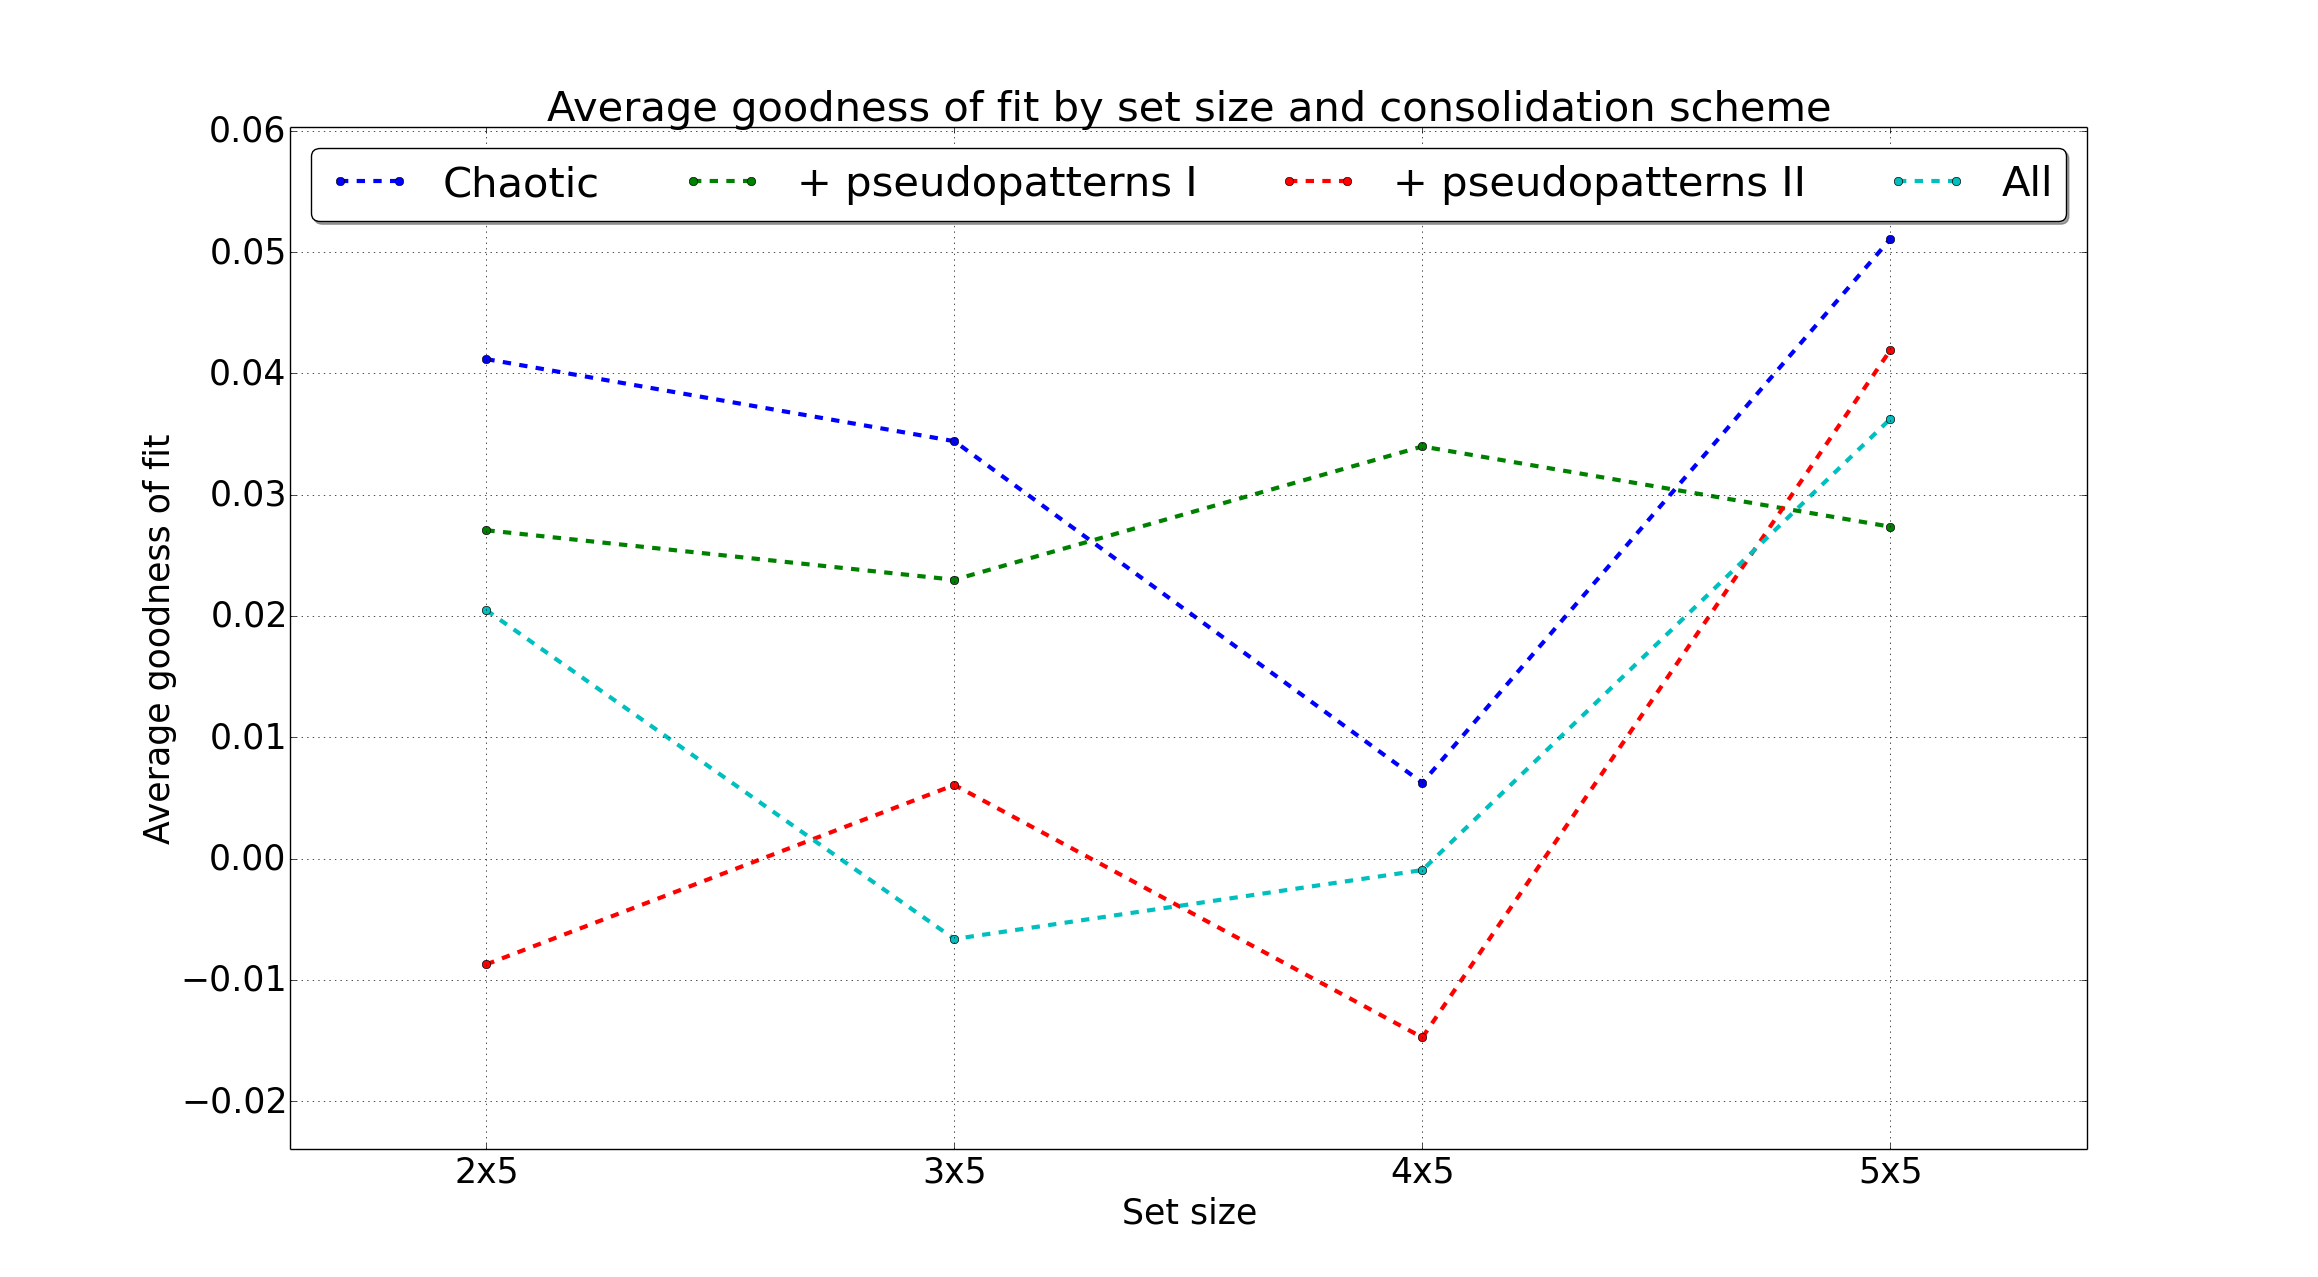
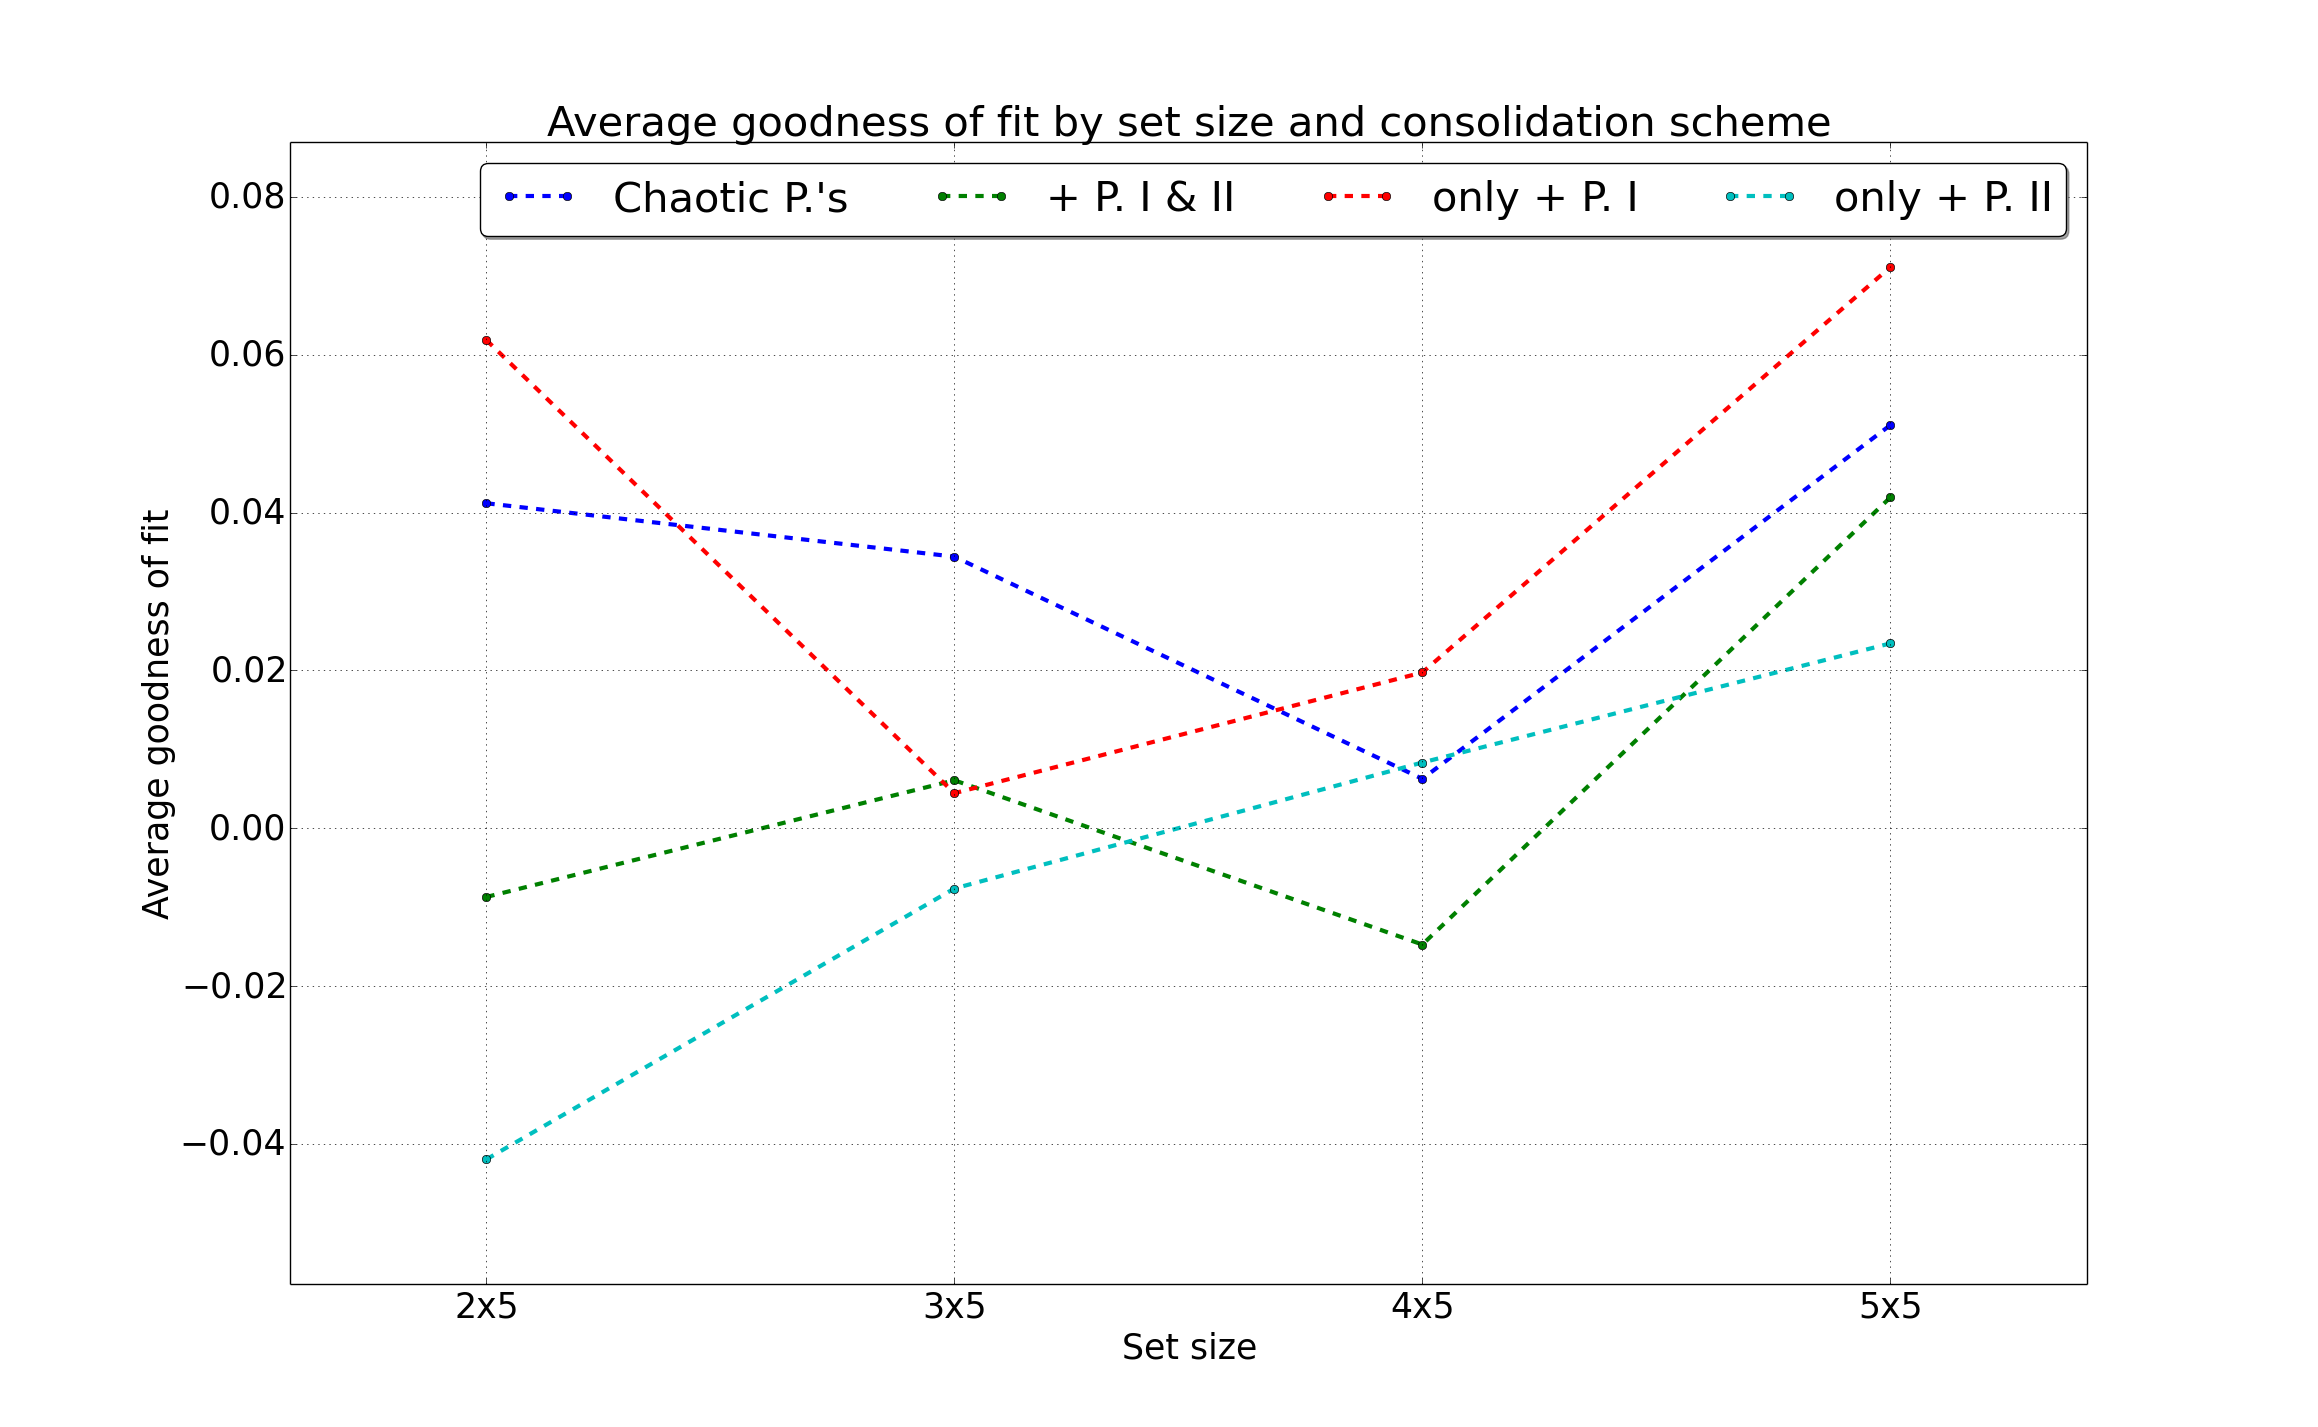
further chaotic output IO span draft

diff --git a/chapter4.tex b/chapter4.tex
@@ -138,16 +138,10 @@ In order to evaluate the impact of synchronous action potential propagation and 
 In this experiment, 20 trials is performed for every full auto-associative training set (that is 2x5, 3x5, 4x5, and 5x5), for every configuration. In other words, for 20 trials $20 * 4 = 80$ experiments are run for each model configuration. In these experiments the model attempts to learn to associate the for $n$ first capital letters auto-associatively, where $n$ corresponds to e.g. $2x5 = 10$, $3x5=15$, $4x5=20$, or $5x5=25$, the x denoting that the training set consists of 5 subsets that are used to train the model, sequentially. 
 Furthermore, the convergence criterion is defined as the following: For each training pattern in the current training set, if the model output is the correct pattern output for the undistorted pattern-input for three recall iterations, the pattern is considered to be successfully learnt. If this is the case for every pattern in the current training subset, convergence is considered to be attained, and chaotic recall is performed. Furthermore, when generating figures, the model is considered to have successfully learned the current training set if converging in less than 50 training iterations. Chaotic recall is performed similarly to the procedure in \citep{Hattori2010, Hattori2014}. That is, during chaotic recall, when the output remains unchanged for three recall iterations, the pattern is considered to be learnt, or successfully extracted in the case of chaotic recall. Chaotic recall is always performed for 300 time-steps, with the input to the network being a new non-changing random input for every extracted pattern.
 
-% \begin{figure}
-%     \centering
-%     \includegraphics[width=14cm]{fig/average_perfect_recall_rates_by_set_size_bars_reset_for_every_experiment}
-%     \caption{Displaying the average number of perfectly recalled patterns by set size for the four different model configurations. Note that the dentate gyrus weighting is set to 25, and the turnover rate to $0.50$ in all of the configurations, which might impact particularly the turnover mode in which turnover is performed between every training iteration.}
-%     \label{fig:avg_perfect_recall_bars}
-% \end{figure}
 
 \begin{figure}
     \centering
-    \includegraphics[width=12cm]{fig/average_perfect_recall_rates_by_set_size_with_spurious_bars_cut}
+    \includegraphics[width=14cm]{fig/average_perfect_recall_rates_by_set_size_with_spurious_bars}
     \caption{Displaying the average number of perfectly recalled patterns for each mode configuration, along with the average number of spuriously recalled patterns for each configuration. Note that the dentate gyrus weighting is set to 25, and the turnover rate to $0.50$ in all of the configurations, which might impact particularly the turnover mode in which turnover is performed between every training iteration.}
     \label{fig:avg_perfect_recall_rates_with_spurious_bars}
 \end{figure}
@@ -156,7 +150,7 @@ Note that spurious is defined as any distinct non-perfectly recalled pattern in 
 
 \begin{figure}
     \centering
-    \includegraphics[width=13cm]{fig/avg_convergence_rate_cut}
+    \includegraphics[width=14cm]{fig/avg_convergence_rate}
     \caption{Presenting the average convergence rate in the four experiment-schemes, using the strict convergence criterion. Learning and convergence is considered successful if attained within 50 training iterations. Note that the synchronous updating schemes seem to converge just as well in nearly all cases, except for in the case of set size 5.}
     \label{fig:convergence_rates_async_sync}
 \end{figure}
@@ -194,39 +188,12 @@ Note that the model configuration now employs a turnover rate, denoted by $\tau$
 
 % results
 
-% \begin{figure}
-%     \centering
-%     \includegraphics[width=13cm]{fig/DGWs/cut/avg_recall_ratio_by_dgw_sync_tm0_50_cut}
-%     \caption{Perfect recall rate for synchronous CA3-layer neuronal updates, using a turnover rate $\tau=0.50$, and neuronal turnover between learnt subsets. It seems that using the DG-layer altogether does only slightly enhance the extraction rate of the model with the current parametrization. Furthermore, the extraction rate relative to the pattern size of perfectly recalled patterns remains fairly uniform across all training set sizes.}
-%     \label{fig:avg_recall_ratio_by_dgw_sync_tm0_50}
-% \end{figure}
-% \begin{figure}
-%     \centering
-%     \includegraphics[width=13cm]{fig/DGWs/cut/non_perfect_recall_by_dgw_sync_tm0_50_cut}
-%     \caption{Displaying the number of spuriously recalled patterns, usign the synchronous CA3 updating mode, $\tau=0.50$, and turnover between learnt sets.}
-%     \label{fig:non_perfect_recall_by_dgw_sync_tm0_50}
-% \end{figure}
-
 \begin{figure}
     \centering
     \includegraphics[width=13cm]{fig/DGWs/sync_tm0_50}
     \caption{Displaying the convergence and recall rates for the scheme of synchronous CA3-layer neuronal updates, using a turnover rate $\tau=0.50$, and neuronal turnover between learnt subsets. Note that the dashed lines in the lower subplot denote the spurious recall rates, whereas the continuous lines indicate the perfect recall rates of the corresponding set sizes. It seems that using the DG-layer altogether does not impact the extraction rate of the model with the current parametrization. Furthermore, the extraction rate relative to the pattern size of perfectly recalled patterns remains fairly uniform across all training set sizes.}
     \label{fig:sync_tm0_50}
 \end{figure}
-
-% \begin{figure}
-%     \centering
-%     \includegraphics[width=13cm]{fig/DGWs/cut/avg_recall_ratio_by_dgw_async_tm0_50_cut}
-%     \caption{Perfect recall rate for synchronous CA3-layer neuronal updates, using a turnover rate $\tau=0.50$, and neuronal turnover between learnt subsets. It seems that using the DG-layer altogether does only slightly enhance the extraction rate of the model with the current parametrization. Furthermore, the extraction rate relative to the pattern size of perfectly recalled patterns remains fairly uniform across all training set sizes.}
-%     \label{fig:avg_recall_ratio_by_dgw_async_tm0_50}
-% \end{figure}
-
-% \begin{figure}
-%     \centering
-%     \includegraphics[width=13cm]{fig/DGWs/cut/non_perfect_recall_by_dgw_async_tm0_50_cut}
-%     \caption{Displaying the number of spuriously recalled patterns, usign the synchronous CA3 updating mode, $\tau=0.50$, and turnover between learnt sets.}
-%     \label{fig:non_perfect_recall_by_dgw_async_tm0_50}
-% \end{figure}
 
 \begin{figure}
     \centering
@@ -476,25 +443,54 @@ Before delving into the experiments of the neocortical module, I would like to o
 
 \begin{figure}
     \centering
-    \includegraphics[width=12cm]{fig/neo-condsolidation/consolidation-schemes-sync-tm1-tr30_15_iters}
-    \caption{Avg's for the two modes above. }
-    \label{fig:my_label}
+    \includegraphics[width=14cm]{fig/neo-consolidation/consolidation-schemes-sync-tm1-tr30_15_iters}
+    \caption{Displaying the average goodness of fit for four different consolidation schemes when training for 15 iterations per subset, namely; \textbf{(1)} by only using the chaotically recalled patterns as the training patterns, \textbf{(2)} by using the chaotically recalled as well as pseudopatterns I and II, \textbf{(3)} by using the chaotically recalled patterns and pseudopatterns type I, and \textbf{(4)} by using chaotically recalled patterns and pseudopatterns II. Note that the goodness of fit seems to be approximately 0 in all schemes.}
+    \label{fig:consolidation-schemes-sync}
 \end{figure}
 
-No information seems to be transferred
+When studying figure \ref{fig:consolidation-schemes-sync}, it appears as if no information is transferred by using any combination of chaotically recalled hippocampal patterns. Furthermore, the goodness of fit remains approximately 0 for including pseudopatterns I, II, or both I and II. Additionally, when halving the pseudopattern set size, or if increasing the number of training iterations per subset to 200, the performance remains the same; $g\approx 0$. This raises the question of whether the chaotically recalled patterns contain any qualities which may reduce catastrophic interference, or any information which may suggest biological parallels. This is addressed in the next subsection of experiments.
 
 \subsection{Experiment: Using chaotically recalled output as IO}
 
-Experiment: Using the chaotically recalled output as IO for consolidation <- reduction in catastrophic forgetting through only using hippocampal patterns. Biologically plausible.
+Due to the fact that the chaotically recalled patterns for a random input, and an attained fairly stable output, consolidated no information to the neocortical network, I here investigate the consolidation performance when using the chaotically extracted output as both input and output to the neocortical network. When only extracting the target outputs for the training set, this would correspond to training on each subset of the original training patterns sequentially for the auto-associative training patterns. This means that a ballpark measure is that of the average goodness of fit when training the network on these subsets, where the average goodness of fit is $\approx 0.79$ (see figure \ref{fig:local_aggregate_im} for the results from one of the runs). Thus a goodness of fit of $\approx 0.79$ will be used as the baseline measure when investigating using chaotically recalled output as both input and output.
+
+I would like to point out that biologically speaking, the activity of CA3 is relayed to CA1 in the hippocampus, which is also relayed back to the EC. Although it remains a bit unclear how this occurs, this provides a mechanism for relaying heterogeneous patterns to parts of the cortex by relaying the activity of the EC and CA1.
 
 Three local schemes only:
 \begin{itemize}
     \item Sync $\tau=0.30$, tm1, DGW25, 15 iters
-    \item Async $\tau=0.50$, tm0, DGW25, 15 iters
     \item Sync $\tau=0.30$, tm1, DGW25, 50 iters
+    \item Async $\tau=0.50$, tm0, DGW25, 15 iters
 \end{itemize}
 
+% results
+% \begin{figure}
+%     \centering
+%     \includegraphics[width=14cm]{fig/neo-consolidation/consolidation-IO-span-all}
+%     \caption{}
+%     \label{fig:consolidation-IO-span-all}
+% \end{figure}
+
+\begin{figure}
+    \centering
+    \includegraphics[width=14cm]{fig/neo-consolidation/consolidation-IO-span-all-with-baseline}
+    \caption{Illustrating the average goodnesses of fit for three different hippocampal model schemes, all using the relaxed $i$ iterations training and convergence criterion. Note that the bracketed numbers denote the number of training iterations used in the neocortical network during pattern consolidation. It seems that the averages do not deviate significantly from one another, with the exception being for set size 2x5 in the synchronous CA3 updating scheme, where the goodness of fit is significantly improved by using the chaotically recalled patterns as the spanning input and output of the neocortical network.}
+    \label{fig:consolidation-IO-span-all-with-baseline}
+\end{figure}
+
+Interesting: When distorting original training patterns, it is very sensitive to the number of training iterations used per subset.
+However, when using chaotically recalled patterns, it seems that the model is far more robust. Concluding: The principal correlations are inherent in most chaotically recalled patterns. Furthermore, as the hippocampal model performs pattern separation, it may output patterns which are more separated in weight space, and thus more well suited for sequential consolidation to a neocortical network. This may lower the need for pseudorehearsal in order to maintain previous patterns, and is therefore a more biologically realistic mechanism for pattern consolidation. Further research is needed on the qualities of the hippocampal model, with possible research spaces being the synthesis of the network topologies and learning mechanisms. The aim of such research could be to discover or illuminate potential information transfer mechanisms in neural networks, which may be used to enhance existing algorithms, develop more sophisticated or intertwined neural network algorithms and models, or to draw neuroscientific and biological parallels.
+
+2x5 contains far more spurious patterns! Figure:
+
+\begin{figure}
+    \centering
+    \includegraphics[width=13cm]{fig/neo-consolidation/}
+\end{figure}
+
 Low level example from one run. Some emphasis should be put on that this is novel within this thesis.
+
+% \subsection{Distorted IOs demo. - lossless using subset sequential training as baseline measure, but highly sensitive to number of training patterns, i.e. pseudopatterns}
 
 \subsection{Neocortical module results summary}
 
